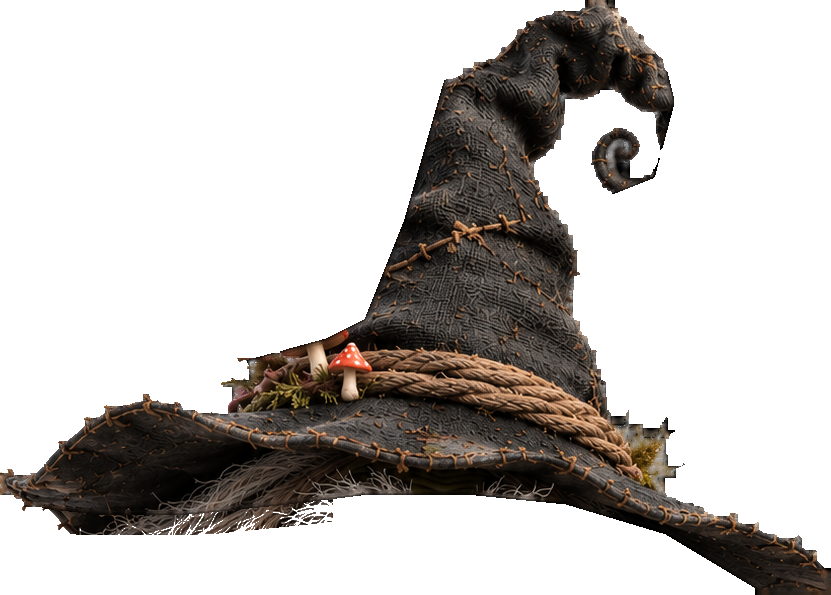
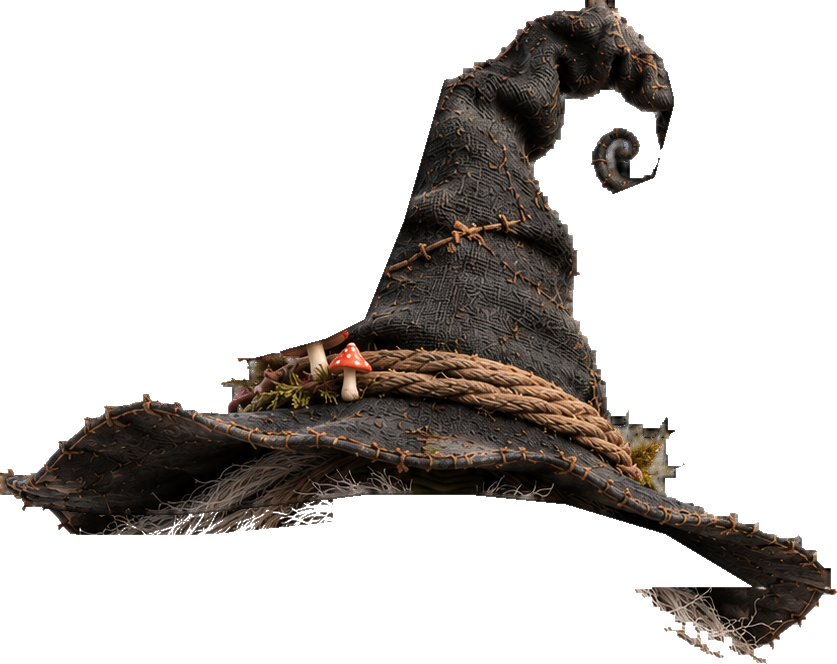
Add files via upload

diff --git a/src/actors.js b/src/actors.js
@@ -1,4 +1,4 @@
-const ACTORS_VERSION='2026-10-13d';
+const ACTORS_VERSION='2026-10-13i';
 // actors.js — ghosts and the jar.
 // Placeholder art is drawn in code; painted art drops in via assets/ghosts/ghost.json (see docs/GHOST_DESIGN_BRIEF.md).
 // Globals used from engine.js: TAU, lerp, clamp, easeIO, rrPath.  From hunt.js (at call time): HUNT, hunt, shake, haptic, canvas, DPR.
@@ -77,7 +77,7 @@ function drawGhostFigure(ctx,o){
   const size=o.size,T=o.T,s=o.station,w=size*0.78,h=size*1.25,bodyCol='rgba(230,227,218,0.97)';
   let geo=null,pw=w;
   if(GHOSTART.body){const img=GHOSTART.body,c=GHOSTART.cfg||{},bh=size*(c.bodyHeight||1.35),bw=bh*img.width/img.height,top=size*0.55-bh,E=c.eyes||{y:0.31,dx:0.045,r:0.034,cx:-0.02,veil:0.3},eb=o.eyeBoost||1;pw=bw*0.9;
-    if(o.halo!==false&&s&&s.accent){ctx.save();ctx.shadowColor=s.accent;ctx.shadowBlur=Math.max(10,bh*0.09);ctx.drawImage(img,-bw/2,top,bw,bh);ctx.restore();}   // the station's accent glow, as in the finale
+    if(o.halo!==false&&s&&s.accent){ctx.save();ctx.shadowColor=s.accent;ctx.shadowBlur=Math.max(16,bh*0.16);ctx.drawImage(img,-bw/2,top,bw,bh);ctx.drawImage(img,-bw/2,top,bw,bh);ctx.restore();}   // the station's accent glow, as in the finale
     ctx.drawImage(img,-bw/2,top,bw,bh);geo={y:top+bh*E.y,dx:bh*E.dx*(0.6+0.4*eb),r:bh*E.r*eb,cx:bh*(E.cx||0),top,bh,bw,veil:E.veil};}
   else{
     const g=ctx.createLinearGradient(0,-h*0.6,0,h*0.5);g.addColorStop(0,'rgba(236,233,224,0.96)');g.addColorStop(0.7,'rgba(222,220,212,0.9)');g.addColorStop(1,'rgba(222,220,212,0.15)');
@@ -97,7 +97,7 @@ const ghost={st:'idle',x:0,y:0,sx:1,sy:1,alpha:1,t:0,idx:-1,appear:1,notice:0,pa
 const ROAM_SPOTS=[['home',0,0,5],['home',0,0,5],['jar',0.10,0.21,4],['hat',-0.40,-0.20,4],['high',-0.12,-0.22,3],['sky',0.02,-0.24,3],['near',-0.22,0.06,4]];
 function ghostPoke(){if(ghost.st!=='idle'||ghost.flee>0||ghost.appear<1)return false;ghost.flee=0.001;ghost.roam.spot='home';ghost.roam.tx=0;ghost.roam.ty=0;if(typeof haptic==='function')haptic(25);return true;}
 
-const GSIZE=0.17;   // ghost size as a fraction of screen height (was 0.13; props scale with it)
+const GSIZE=0.20;   // ghost size as a fraction of screen height (was 0.13; props scale with it)
 function ghostHome(W,H){return [W*0.74,H*0.76-H*0.20];}
 function ghostNotice(){ghost.notice=1.4;}
 function blinkAmt(seed,T){const ph=(T*0.31+seed/97)%1;return ph<0.035?Math.sin(ph/0.035*Math.PI):0;}

diff --git a/src/hunt.js b/src/hunt.js
@@ -5,7 +5,7 @@
 // ===================================================================
 
 // ---------- content package (hunt.json inline for the artifact) ----------
-const HB_VERSION='2026-10-13h';
+const HB_VERSION='2026-10-13i';
 const HUNT={id:'haunted-block-2026',title:'The Block Is Haunted',
  stations:[
   {n:1,code:'hb1',scene:'assets/scenes/01-hotdog.jpg',name:'Entry Hot Dog Stand',ghost:'mustard',accent:'#e4c33a',prop:'hotdog',color:'#2b2230',
